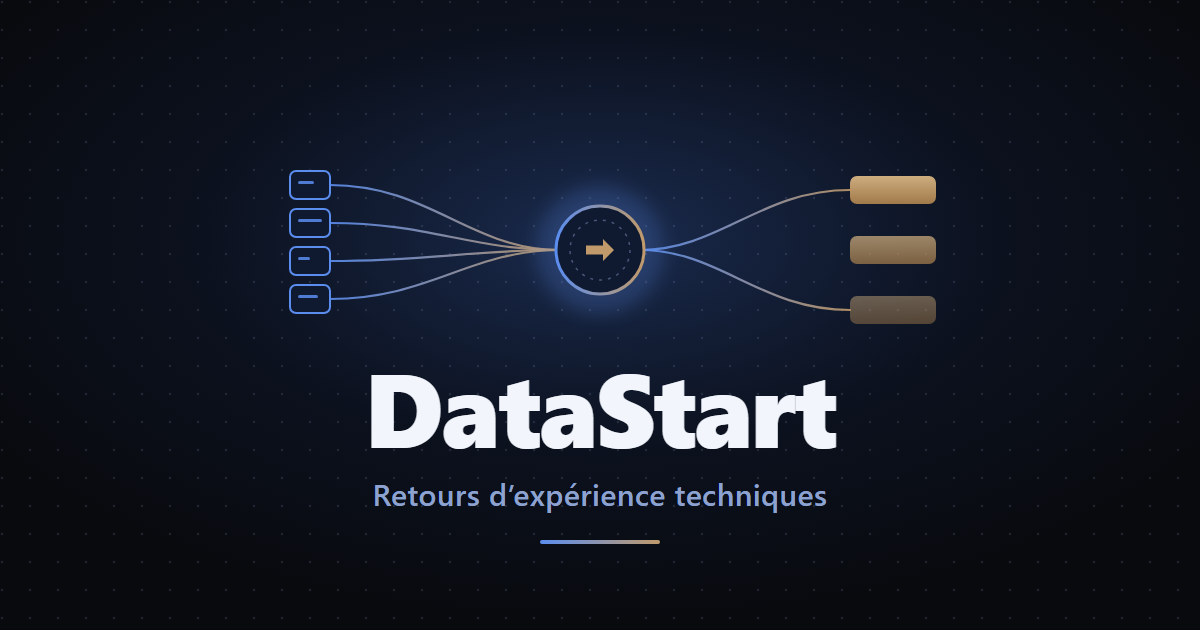
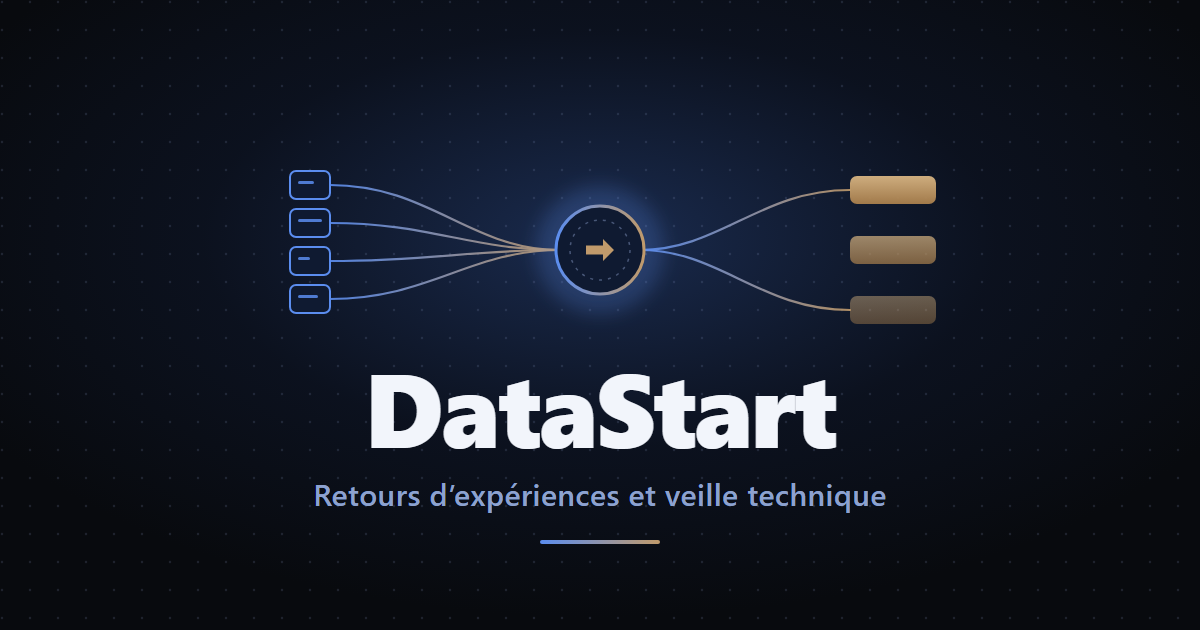
feat(blog): update tagline to experience reports and tech watch
Use local origin for RSS links in dev.

Changed region(s): [[0.2467, 0.754, 0.74, 0.8143]]

diff --git a/src/pages/rss.xml.ts b/src/pages/rss.xml.ts
@@ -8,7 +8,7 @@ import { getPermalink } from '~/utils/permalinks';
 // prerendered even if the project opts into on-demand rendering.
 export const prerender = true;
 
-export const GET = async () => {
+export const GET = async ({ url }: { url: URL }) => {
   if (!APP_BLOG.isEnabled) {
     return new Response(null, {
       status: 404,
@@ -17,11 +17,13 @@ export const GET = async () => {
   }
 
   const posts = await fetchPosts();
+  // In dev, point links at the local server instead of the not-yet-deployed production domain.
+  const site = import.meta.env.DEV ? url.origin : import.meta.env.SITE;
 
   const rss = await getRssString({
     title: `Blog ${SITE.name}`,
     description: METADATA?.description || '',
-    site: import.meta.env.SITE,
+    site,
 
     items: posts.map((post) => ({
       link: getPermalink(post.permalink, 'post'),
@@ -37,7 +39,7 @@ export const GET = async () => {
     customData: [
       `<language>${I18N?.language || 'en'}</language>`,
       `<lastBuildDate>${new Date().toUTCString()}</lastBuildDate>`,
-      `<atom:link href="${new URL(getPermalink('rss.xml', 'asset'), import.meta.env.SITE)}" rel="self" type="application/rss+xml" />`,
+      `<atom:link href="${new URL(getPermalink('rss.xml', 'asset'), site)}" rel="self" type="application/rss+xml" />`,
     ].join(''),
   });
 

diff --git a/src/data/post/bienvenue.md b/src/data/post/bienvenue.md
@@ -21,7 +21,7 @@ Je suis aussi Google Cloud Certified Trainer, j'enseigne à IMT Atlantique, j'é
 
 ## Ce que vous y trouverez
 
-Des retours d'expérience techniques sur la data, le cloud et les agents IA. Des projets réels, avec ce qui a marché, ce qui a cassé et ce que ça a coûté.
+Des retours d'expériences et de la veille technique sur la data, le cloud et les agents IA. Des projets réels, avec ce qui a marché, ce qui a cassé et ce que ça a coûté.
 
 Le format sera celui de mes articles précédents : un récit à la première personne, du code qui tourne, des chiffres constatés, et une section sur les limites.
 
